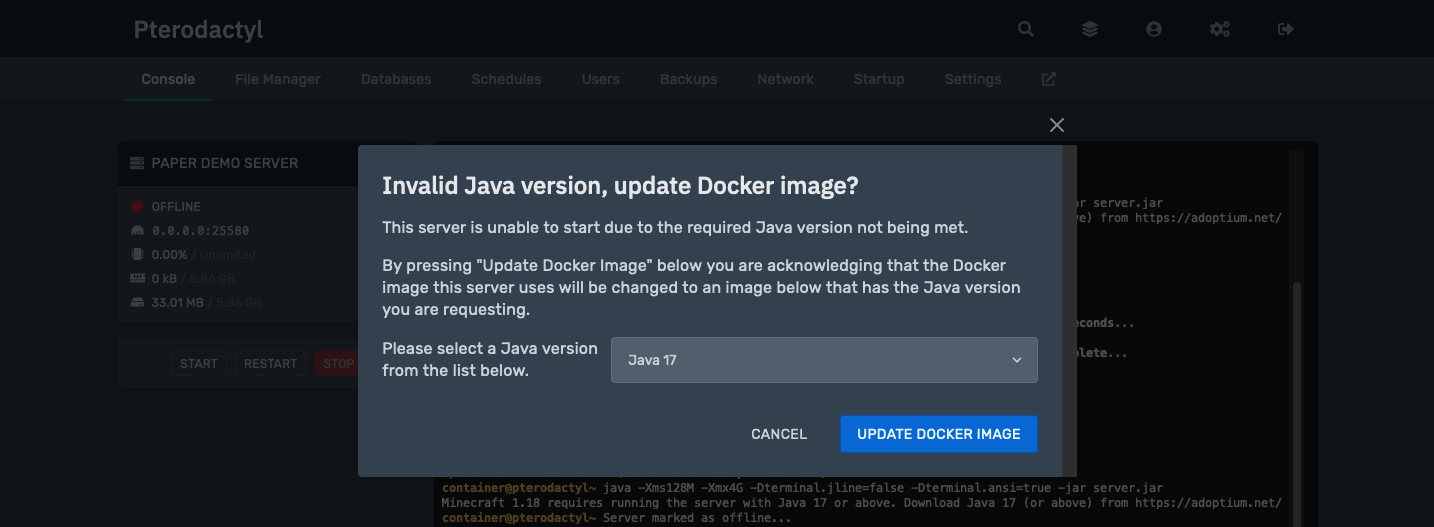
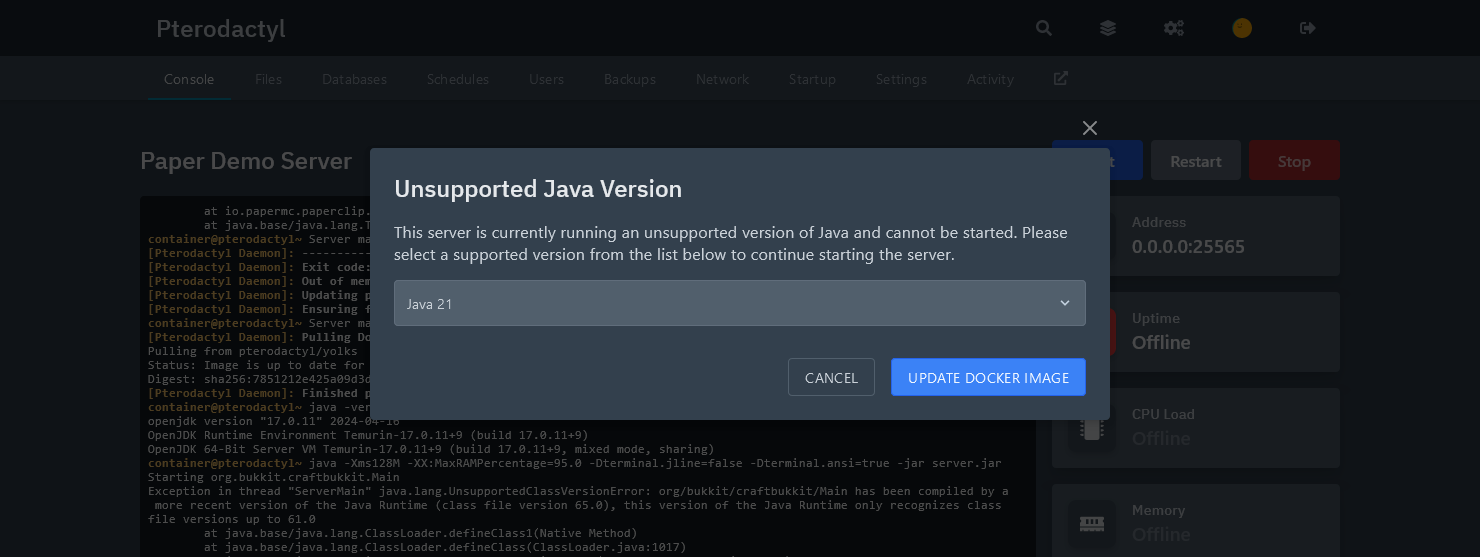
Update Pterodactyl Java installation instructions for Java 21 (#383)

diff --git a/docs/misc/java-install.md b/docs/misc/java-install.md
@@ -129,10 +129,16 @@ prompt you to update like this:
 ![Pterodactyl Automatic Prompt](pterodactyl-prompt.png)
 
 If this does not show up for you, the Java version can be manually changed. Navigate to the
-"Startup" tab of your server, select `ghcr.io/pterodactyl/yolks:java_17` from the "Docker Image"
+"Startup" tab of your server, select `Java 21` from the "Docker Image"
 dropdown as shown in the image below.
 
 ![Pterodactyl Manual Java Version Change](pterodactyl-manual.png)
+
+:::note
+
+If you don't see `Java 21` in the dropdown, an administrator account is required to update the Paper egg.
+
+:::
 
 The Verifying Installation section does not apply for Pterodactyl.
 
